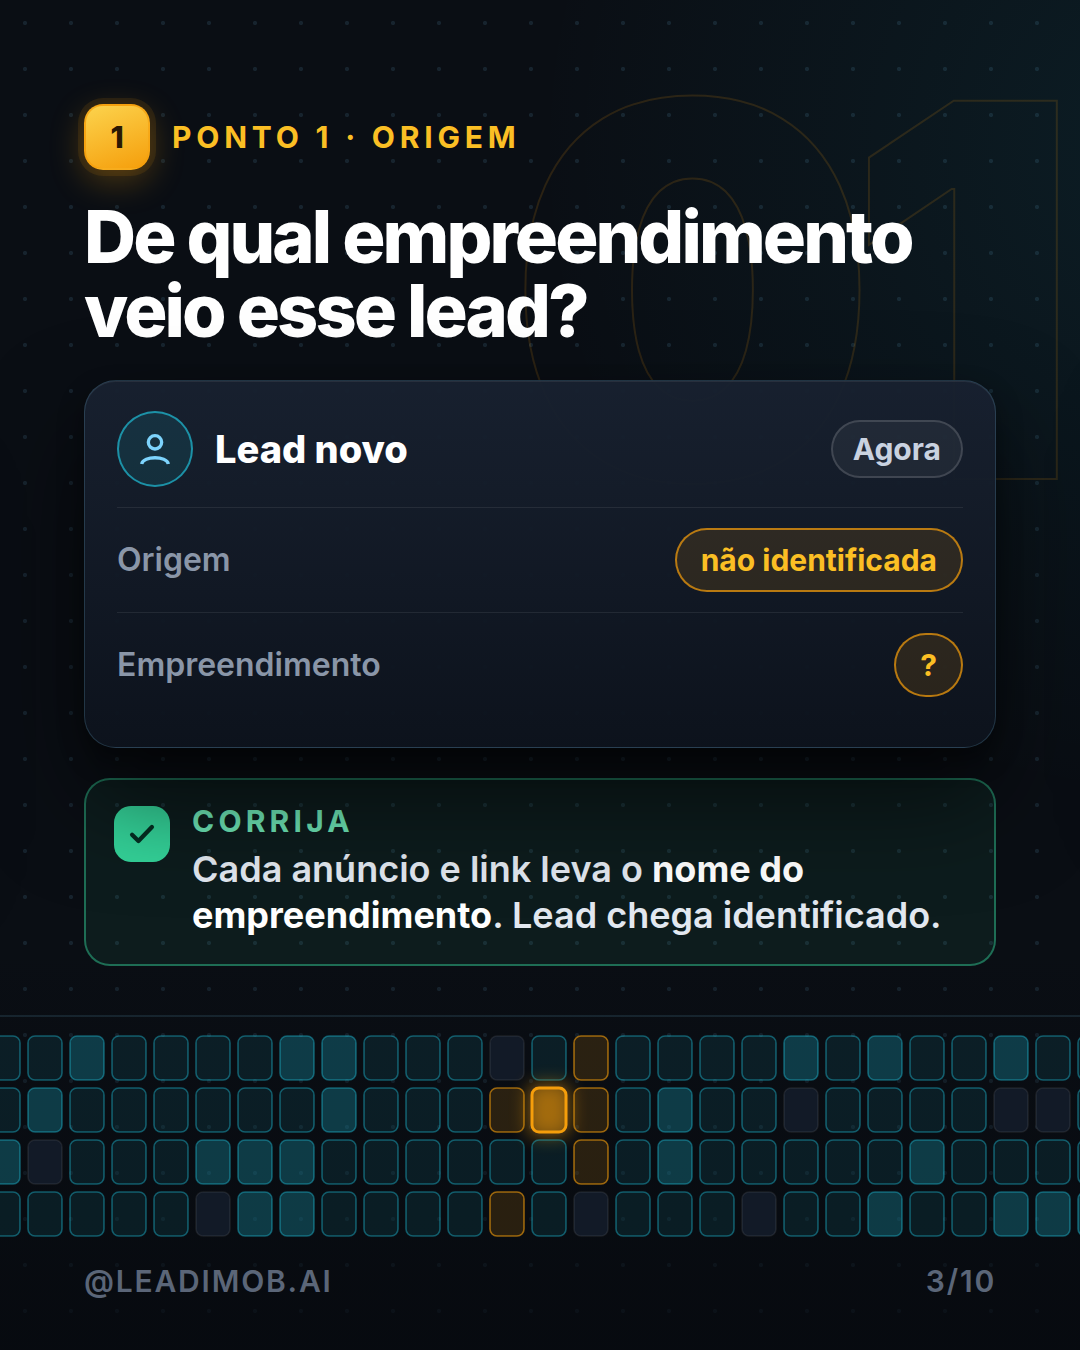
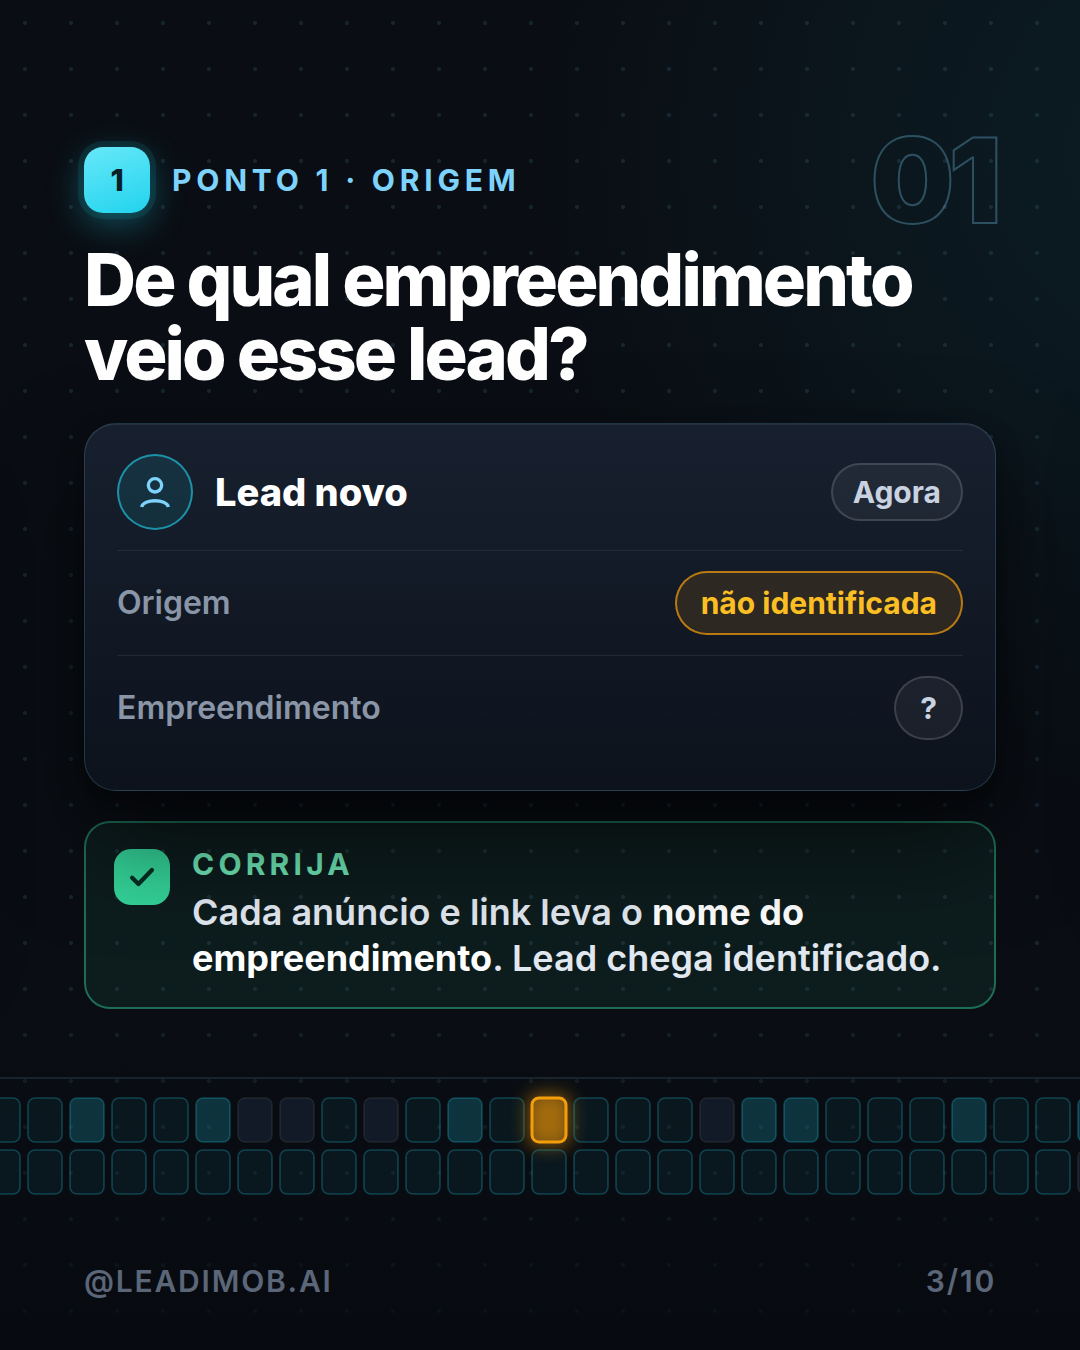
WIP 2026-10-06: carrossel corrigido após crítica
Claude-Session: https://claude.ai/code/session_019uqQxnMBrCEpegyBq19LrA

diff --git a/instagram/2026-10-06/src/c1-index.html b/instagram/2026-10-06/src/c1-index.html
@@ -47,7 +47,8 @@ body{background:#0A0E14;width:10800px;height:1350px;overflow:hidden;font-family:
 .bt{display:flex;justify-content:flex-end;align-items:center;gap:8px;font:500 28px/1 IN;color:rgba(233,237,239,.62);margin-top:8px}
 .tk{width:34px;height:22px}
 .strike{text-decoration:line-through;text-decoration-thickness:4px;text-decoration-color:#F59E0B}
-.lab{font:700 30px/1 IN;letter-spacing:.14em;text-transform:uppercase;color:#7C8799;display:flex;align-items:center;gap:12px}
+.gh{margin-left:auto;font:900 118px/66px IN;letter-spacing:-.05em;color:transparent;-webkit-text-stroke:2px rgba(125,211,252,.30);height:66px}
+.lab{font:700 30px/1 IN;letter-spacing:.14em;text-transform:uppercase;color:#A9B4C6;display:flex;align-items:center;gap:12px}
 
 /* ---------- stream of property cards ---------- */
 #band{position:absolute;inset:0;z-index:2}
@@ -94,21 +95,21 @@ body{background:#0A0E14;width:10800px;height:1350px;overflow:hidden;font-family:
 .row{display:flex;align-items:center;justify-content:space-between;gap:18px;padding:20px 0;border-top:1px solid rgba(255,255,255,.08);font:600 34px/1 IN;color:#C9D2E0}
 .row:first-child{border-top:0}
 .row .k{color:#8A96A8;font-weight:600;font-size:32px}
-.un{width:60px;height:38px;border-radius:10px;border:1.5px solid rgba(255,255,255,.08);background:#121A27}
+.un{height:62px;width:auto;border-radius:10px;border:1.5px solid rgba(255,255,255,.08);background:#121A27}
 .un.h{background:rgba(34,211,238,.16);border-color:rgba(34,211,238,.55)}
 .un.s{background:rgba(52,211,153,.2);border-color:rgba(52,211,153,.7)}
-.un.q{background:rgba(245,158,11,.18);border:3px solid #F59E0B;box-shadow:0 0 0 6px rgba(245,158,11,.12),0 0 34px rgba(245,158,11,.35);display:flex;align-items:center;justify-content:center;font:800 32px/1 IN;color:#FBBF24}
+.un.q{width:auto;background:rgba(245,158,11,.18);border:3px solid #F59E0B;box-shadow:0 0 0 6px rgba(245,158,11,.12),0 0 34px rgba(245,158,11,.35);display:flex;align-items:center;justify-content:center;font:800 32px/1 IN;color:#FBBF24}
 .file{display:flex;align-items:center;gap:20px;padding:18px 24px;border-radius:22px;background:linear-gradient(180deg,rgba(24,33,48,.97),rgba(13,19,29,.97));border:1px solid rgba(125,211,252,.16);box-shadow:0 24px 50px rgba(0,0,0,.5),inset 0 1px 0 rgba(255,255,255,.06);font:700 34px/1 IN}
 .file .pdf{width:50px;height:62px;border-radius:9px;background:#E9EEF4;position:relative;flex:none;box-shadow:inset 0 -18px 0 #C3D0DF}
 .file .pdf::after{content:"";position:absolute;right:0;top:0;width:16px;height:16px;background:#9FB3C4;border-bottom-left-radius:8px}
 .av{width:86px;height:86px;border-radius:50%;display:flex;align-items:center;justify-content:center;flex:none;background:rgba(34,211,238,.10);border:2.5px solid rgba(34,211,238,.6)}
 .av.am{background:rgba(245,158,11,.12);border-color:#F59E0B}
 .av.em{background:transparent;border:3px dashed #F59E0B;color:#FBBF24;font:800 40px/1 IN}
-.kc{display:flex;align-items:center;gap:20px;padding:8px 22px;border-radius:22px;background:#0F1621;border:1px solid rgba(255,255,255,.09);box-shadow:0 14px 30px rgba(0,0,0,.4)}
+.kc{display:flex;align-items:center;gap:20px;padding:16px 24px;border-radius:22px;background:#0F1621;border:1px solid rgba(255,255,255,.09);box-shadow:0 14px 30px rgba(0,0,0,.4)}
 .kc .l{flex:1;display:flex;flex-direction:column;gap:12px}
 .kc .l b{height:14px;border-radius:7px;background:rgba(255,255,255,.28);display:block;width:70%}
 .kc .l s{height:12px;border-radius:6px;background:rgba(255,255,255,.12);display:block;width:44%}
-.fr{display:flex;align-items:center;gap:24px;padding:22px 0;border-top:1px solid rgba(255,255,255,.08);font:600 38px/1.2 IN;color:#E2E8F0}
+.fr{display:flex;align-items:center;gap:24px;padding:32px 0;border-top:1px solid rgba(255,255,255,.08);font:600 38px/1.2 IN;color:#E2E8F0}
 .fr:first-child{border-top:0}
 .fr .ic{width:68px;height:68px;border-radius:20px;background:rgba(52,211,153,.10);border:1.5px solid rgba(52,211,153,.5);display:flex;align-items:center;justify-content:center;flex:none}
 .legend{display:flex;gap:14px;flex-wrap:wrap}
@@ -137,23 +138,22 @@ const CKG='<svg width="36" height="36" viewBox="0 0 24 24"><path d="M5 12.500l4.
 
 /* ---- faixa contínua: fachada do empreendimento, cada janela é um lead ---- */
 (function(){
- const P=42,TW=34,TH=44,RP=52,Y0=1036,ROWS=4,r=rng(606);let s='';
+ const P=42,TW=34,TH=44,RP=52,Y0=1098,ROWS=2,r=rng(606);let s='';
  s+='<defs><filter id="gl" x="-80%" y="-80%" width="260%" height="260%"><feGaussianBlur stdDeviation="9"/></filter></defs>';
- s+='<line x1="0" x2="10800" y1="1016" y2="1016" stroke="rgba(125,211,252,.16)" stroke-width="1.5"/>';
+ s+='<line x1="0" x2="10800" y1="1078" y2="1078" stroke="rgba(125,211,252,.16)" stroke-width="1.5"/>';
  const cols=Math.floor(10800/P);
- const pain=[];for(let k=3;k<=8;k++){pain.push({c:Math.round(((k-1)*1080+540)/P),row:(k%2)?1:2})}
+ const pain=[];for(let k=3;k<=8;k++){pain.push({c:Math.round(((k-1)*1080+540)/P),row:(k%2)?0:1})}
  for(let c=0;c<cols;c++){for(let ro=0;ro<ROWS;ro++){
   const x=c*P+4,y=Y0+ro*RP,sl=(c*P+17)/1080,q=r(),q2=r();
   let f,st,op=1,gl='';
-  const cool=sm(1.4,8.1,sl)*0.8, green=sm(8.5,9.8,sl)*0.92;
+  const cool=sm(1.0,6.5,sl)*0.85, green=sm(8.5,9.8,sl)*0.92;
   if(sl>=8.5 && q<green){f='rgba(52,211,153,.20)';st='rgba(52,211,153,.75)'; if(q2<.3)f='rgba(52,211,153,.38)'}
   else if(q<cool && sl<8.5){f='#121A27';st='rgba(255,255,255,.08)'}
-  else {f='rgba(34,211,238,.09)';st='rgba(34,211,238,.38)'; if(q2<.2)f='rgba(34,211,238,.24)'}
+  else {f='rgba(34,211,238,.06)';st='rgba(34,211,238,.26)'; if(q2<.12)f='rgba(34,211,238,.20)'}
   let amb=0;
   for(const p of pain){const dc=Math.abs(c-p.c);
    if(dc===0&&ro===p.row){amb=2}
-   else if(dc<=2&&amb<2&&r()<.22&&ro!==p.row){amb=1}
-   else if(dc===1&&ro===p.row&&amb<2){amb=1}}
+   }
   if(amb===2){gl=`<rect x="${x-4}" y="${y-4}" width="${TW+8}" height="${TH+8}" rx="9" fill="#F59E0B" opacity=".5" filter="url(#gl)"/>`;f='rgba(245,158,11,.30)';st='#F59E0B'}
   else if(amb===1){f='rgba(245,158,11,.14)';st='rgba(245,158,11,.6)'}
   s+=gl+`<rect x="${x}" y="${y}" width="${TW}" height="${TH}" rx="7" fill="${f}" stroke="${st}" stroke-width="${amb===2?3:1.600}"/>`;
@@ -163,9 +163,9 @@ const CKG='<svg width="36" height="36" viewBox="0 0 24 24"><path d="M5 12.500l4.
 
 /* ---- helpers de slide ---- */
 const foot=n=>`<div class="foot"><span>@LEADIMOB.AI</span><span>${n}/10</span></div>`;
-const ttl=(n,k,amb,icon)=>`<div class="ttl"><div class="num${amb?' amb':''}">${icon||n}</div><div class="kick" style="${amb?'color:#FBBF24':''}">${k}</div></div>`;
+const ttl=(n,k,amb,icon,gh)=>`<div class="ttl"><div class="num">${icon||n}</div><div class="kick">${k}</div>${gh?`<div class="gh">${gh}</div>`:''}</div>`;
 const fix=t=>`<div class="fix"><div class="ck">${CKW}</div><div class="t"><b>Corrija</b>${t}</div></div>`;
-const pain=(i,n,k,title,art,fx,ghost)=>`<div class="sl" style="left:${(i-1)*1080}px;justify-content:flex-start;padding-top:104px"><div class="ghost" style="-webkit-text-stroke-color:rgba(245,158,11,.14)">${ghost||'0'+n}</div>${ttl(n,k,1)}<div class="h2" style="font-size:72px">${title}</div><div style="margin-top:32px">${art}</div>${fix(fx)}${foot(i)}</div>`;
+const pain=(i,n,k,title,art,fx,ghost)=>`<div class="sl" style="left:${(i-1)*1080}px;padding-bottom:290px">${ttl(n,k,1,null,ghost||'0'+n)}<div class="h2" style="font-size:72px">${title}</div><div style="margin-top:32px">${art}</div>${fix(fx)}${foot(i)}</div>`;
 let H='';
 
 /* 1 CAPA */
@@ -174,9 +174,9 @@ H+=`<div class="sl" style="left:0;justify-content:flex-start;padding-top:118px">
   <div class="ttl" style="margin:0"><div class="num"><svg width="34" height="34" viewBox="0 0 24 24" fill="none" stroke="#06202A" stroke-width="2.600" stroke-linecap="round" stroke-linejoin="round"><path d="M4 21V8l8-5 8 5v13M9 21v-6h6v6"/></svg></div><div class="kick">Lançamento</div></div>
   <span class="chip cy"><svg width="24" height="28" viewBox="0 0 20 24"><path d="M3 2h14v20l-7-5.500L3 22z" fill="#A5F3FC"/></svg>Salve este post</span>
  </div>
- <div class="h1" style="margin-top:50px;font-size:150px"><span class="hl">6</span> pontos<br>onde o lead<br><span style="color:transparent;-webkit-text-stroke:3px #8794A8">esfria.</span></div>
- <div class="p" style="margin-top:34px;font-size:40px;color:#E2E8F0">Lançamento imobiliário: veja onde<br>o interesse se perde e como corrigir.</div>
- <div class="legend" style="margin-top:34px">
+ <div class="h1" style="margin-top:56px;font-size:160px"><span class="hl">6</span> pontos<br>onde o lead<br><span style="color:transparent;-webkit-text-stroke:3px #8794A8">esfria.</span></div>
+ <div style="margin-top:40px;font:700 46px/1.25 IN;letter-spacing:-.01em;color:#fff">Lançamento imobiliário: onde o interesse se perde e <span class="hl">como corrigir</span>.</div>
+ <div class="legend" style="margin-top:44px">
   <span class="chip cy" style="padding:12px 20px"><i class="dot" style="background:rgba(34,211,238,.45);border:2px solid #22D3EE"></i>Interessado</span>
   <span class="chip amb" style="padding:12px 20px"><i class="dot" style="background:rgba(245,158,11,.4);border:2px solid #F59E0B"></i>Esfriou</span>
   <span class="chip gr" style="padding:12px 20px"><i class="dot" style="background:rgba(52,211,153,.4);border:2px solid #34D399"></i>Resolvido</span>
@@ -185,11 +185,10 @@ H+=`<div class="sl" style="left:0;justify-content:flex-start;padding-top:118px">
 </div>`;
 
 /* 2 POR QUE */
-H+=`<div class="sl" style="left:1080px;justify-content:flex-start;padding-top:104px"><div class="ghost" style="-webkit-text-stroke-color:rgba(245,158,11,.14)">!</div>
- ${ttl('!','Por que esfria',1)}
+H+=`<div class="sl" style="left:1080px;padding-bottom:290px">${ttl('!','Por que esfria',1,null,'!')}
  <div class="h2" style="font-size:72px">No lançamento, o interesse chega no pico. <span class="am">E esfria rápido.</span></div>
  <div class="card" style="margin-top:34px;padding:28px 30px 24px">
-  <svg width="852" height="250" viewBox="0 0 852 250" fill="none">
+  <svg width="852" height="330" viewBox="0 0 852 250" preserveAspectRatio="none" fill="none">
    <defs><linearGradient id="hg" x1="0" x2="1"><stop offset="0" stop-color="#22D3EE"/><stop offset=".55" stop-color="#7DD3FC"/><stop offset="1" stop-color="#F59E0B"/></linearGradient></defs>
    <path d="M20 232H832M20 232V10" stroke="rgba(255,255,255,.16)" stroke-width="2"/>
    <path d="M30 40C150 44 230 110 330 170C430 222 600 226 820 226" stroke="url(#hg)" stroke-width="8" stroke-linecap="round"/>
@@ -205,45 +204,44 @@ H+=`<div class="sl" style="left:1080px;justify-content:flex-start;padding-top:10
 H+=pain(3,1,'Ponto 1 · Origem','De qual empreendimento veio esse lead?',
 `<div class="card ficha"><div style="display:flex;align-items:center;gap:22px;padding-bottom:20px"><div class="av" style="width:76px;height:76px"><svg width="40" height="40" viewBox="0 0 24 24" fill="none" stroke="#7DD3FC" stroke-width="2"><circle cx="12" cy="8" r="4"/><path d="M4 21c1-5 15-5 16 0"/></svg></div><div style="font:800 38px/1 IN">Lead novo</div><span class="chip nt" style="margin-left:auto;padding:12px 20px">Agora</span></div>
 <div class="row"><span class="k">Origem</span><span class="chip amb">não identificada</span></div>
-<div class="row"><span class="k">Empreendimento</span><span class="chip amb">?</span></div></div>`,
+<div class="row"><span class="k">Empreendimento</span><span class="chip nt">?</span></div></div>`,
 'Cada anúncio e link leva o <i>nome do empreendimento</i>. Lead chega identificado.');
 
 /* 4 DISPONIBILIDADE */
-(function(){const st=['h','','h','s','','h','','h','q','','h','','h','','s','','h',''];let g='';st.forEach(x=>g+=x==='q'?'<div class="un q">?</div>':`<div class="un ${x}"></div>`);
+(function(){const st=['h','','h','s','','h','h','','q','','h','s'];let g='';st.forEach(x=>g+=x==='q'?'<div class="un q">?</div>':`<div class="un ${x}"></div>`);
+const lg=(c,b,t)=>`<span style="display:inline-flex;align-items:center;gap:10px;font:600 30px/1 IN;color:#C9D2E0"><i class="dot" style="background:${c};border:2px solid ${b}"></i>${t}</span>`;
 H+=pain(4,2,'Ponto 2 · Disponibilidade','A pergunta sobre a unidade fica sem resposta.',
-`<div class="card" style="padding:26px 30px"><div class="lab" style="margin-bottom:18px">Espelho de vendas</div><div style="display:grid;grid-template-columns:repeat(6,60px);gap:10px;justify-content:space-between">${g}</div>
-<div class="bub bin" style="margin-top:24px;padding:16px 22px 12px;font-size:36px">Ainda tem essa unidade?<div class="bt" style="color:#FBBF24;justify-content:flex-start;font-size:30px">visualizada · sem resposta</div></div></div>`,
+`<div class="card" style="padding:28px 30px"><div class="lab" style="margin-bottom:20px">Espelho de vendas</div><div style="display:grid;grid-template-columns:repeat(6,1fr);gap:14px">${g}</div>
+<div style="display:flex;gap:26px;margin-top:20px">${lg('rgba(34,211,238,.3)','#22D3EE','Disponível')}${lg('rgba(52,211,153,.3)','#34D399','Reservada')}${lg('#121A27','rgba(255,255,255,.3)','Vendida')}</div>
+<div class="bub bin" style="margin-top:26px;padding:18px 24px 14px;font-size:38px">Ainda tem essa unidade?<div class="bt" style="color:#C9D2E0;justify-content:flex-start;font-size:30px">visualizada · sem resposta</div></div></div>`,
 'Responda a disponibilidade <i>na hora</i>, direto do espelho atualizado.');})();
 
 /* 5 TABELA */
 H+=pain(5,3,'Ponto 3 · Tabela','Tabela desatualizada circulando no grupo.',
-`<div style="position:relative;display:flex;flex-direction:column;gap:16px"><div class="file"><span class="pdf"></span>tabela-final.pdf<span class="chip amb" style="margin-left:auto;padding:12px 20px">antiga</span></div>
-<div class="file" style="margin-left:34px"><span class="pdf"></span>tabela-final-2.pdf<span class="chip amb" style="margin-left:auto;padding:12px 20px">antiga?</span></div>
-<div class="file" style="margin-left:68px"><span class="pdf"></span>tabela-NOVA.pdf<span class="chip nt" style="margin-left:auto;padding:12px 20px">qual vale?</span></div></div>`,
+`<div style="position:relative;display:flex;flex-direction:column;gap:16px"><div class="file"><span class="pdf"></span>tabela-final.pdf<span class="chip nt" style="margin-left:auto;padding:12px 20px">antiga</span></div>
+<div class="file" style="margin-left:34px"><span class="pdf"></span>tabela-final-2.pdf<span class="chip nt" style="margin-left:auto;padding:12px 20px">antiga?</span></div>
+<div class="file" style="margin-left:68px"><span class="pdf"></span>tabela-NOVA.pdf<span class="chip amb" style="margin-left:auto;padding:12px 20px">qual vale?</span></div></div>`,
 'Uma só versão vigente. <i>Todo mundo consulta a mesma.</i>');
 
 /* 6 PLANTAO */
 H+=pain(6,4,'Ponto 4 · Plantão','Plantão lotado e fila sem dono.',
-`<div class="card" style="padding:34px 30px"><div class="lab" style="margin-bottom:22px">Fila do plantão</div>
-<div style="display:flex;align-items:center;gap:16px">
-${[0,1,2].map(()=>`<div class="av"><svg width="44" height="44" viewBox="0 0 24 24" fill="none" stroke="#7DD3FC" stroke-width="2"><circle cx="12" cy="8" r="4"/><path d="M4 21c1-5 15-5 16 0"/></svg></div>`).join('')}
-${[0,1].map(()=>`<div class="av am"><svg width="44" height="44" viewBox="0 0 24 24" fill="none" stroke="#FBBF24" stroke-width="2"><circle cx="12" cy="8" r="4"/><path d="M4 21c1-5 15-5 16 0"/></svg></div>`).join('')}
+`<div class="card" style="padding:38px 30px 34px"><div class="lab" style="margin-bottom:30px">Fila do plantão</div>
+<div style="display:flex;align-items:center;justify-content:space-between">
+${[0,1,2,3,4].map(()=>`<div class="av" style="width:112px;height:112px"><svg width="54" height="54" viewBox="0 0 24 24" fill="none" stroke="#7DD3FC" stroke-width="2"><circle cx="12" cy="8" r="4"/><path d="M4 21c1-5 15-5 16 0"/></svg></div>`).join('')}
 <svg width="40" height="40" viewBox="0 0 24 24" fill="none" stroke="#7C8799" stroke-width="2.600" stroke-linecap="round"><path d="M5 12h14M13 6l6 6-6 6"/></svg>
-<div class="av em">?</div></div>
-<div style="margin-top:22px;display:flex;gap:12px"><span class="chip amb" style="padding:12px 20px">esperando</span><span class="chip nt" style="padding:12px 20px">sem responsável</span></div></div>`,
+<div class="av em" style="width:112px;height:112px;font-size:52px">?</div></div>
+<div style="margin-top:30px;display:flex;gap:14px"><span class="chip nt" style="padding:12px 20px">esperando</span><span class="chip nt" style="padding:12px 20px">sem responsável</span></div></div>`,
 'Todo lead da fila recebe <i>um responsável</i>. Quem espera recebe retorno.');
 
 /* 7 CONSULTOR */
 H+=pain(7,5,'Ponto 5 · Consultor','Lead sem consultor definido.',
-`<div class="card" style="padding:26px 28px"><div class="lab" style="margin-bottom:14px">Novos leads</div><div style="display:flex;flex-direction:column;gap:10px">
-<div class="kc"><div class="l"><b></b><s></s></div><div class="av" style="width:72px;height:72px;font:800 30px IN;color:#A5F3FC">M</div></div>
-<div class="kc"><div class="l"><b></b><s></s></div><div class="av" style="width:72px;height:72px;font:800 30px IN;color:#A5F3FC">R</div></div>
-<div class="kc" style="border:2px solid rgba(245,158,11,.6)"><div class="l"><b></b><s></s></div><div class="av em" style="width:72px;height:72px;font-size:34px">?</div></div></div></div>`,
+`<div class="card" style="padding:30px 28px"><div class="lab" style="margin-bottom:20px">Novos leads</div><div style="display:flex;flex-direction:column;gap:14px">
+<div class="kc"><div class="l"><div style="font:700 32px/1 IN">Lead novo · agora</div><div style="font:600 30px/1 IN;color:#A9B4C6">Empreendimento</div></div><div class="av" style="width:80px;height:80px;font:800 32px IN;color:#A5F3FC">M</div></div><div class="kc"><div class="l"><div style="font:700 32px/1 IN">Lead novo · agora</div><div style="font:600 30px/1 IN;color:#A9B4C6">Empreendimento</div></div><div class="av" style="width:80px;height:80px;font:800 32px IN;color:#A5F3FC">R</div></div><div class="kc"><div class="l"><div style="font:700 32px/1 IN">Lead novo · agora</div><div style="font:600 30px/1 IN;color:#A9B4C6">Empreendimento</div></div><div class="av em" style="width:80px;height:80px;font-size:36px">?</div></div></div></div>`,
 'Defina o consultor <i>no instante</i> da chegada.');
 
 /* 8 POS VISITA */
 H+=pain(8,6,'Ponto 6 · Pós-visita','Depois da visita, ninguém retoma.',
-`<div class="card" style="padding:70px 30px 64px"><div style="position:relative;display:flex;justify-content:space-between;align-items:flex-start">
+`<div class="card" style="padding:96px 30px 90px"><div style="position:relative;display:flex;justify-content:space-between;align-items:flex-start">
 <div style="position:absolute;left:60px;right:60px;top:42px;height:4px;background:linear-gradient(90deg,#34D399 0 32%,rgba(245,158,11,.7) 38% 62%,rgba(255,255,255,.14) 68%)"></div>
 <div style="width:200px;text-align:center;position:relative"><div class="av" style="margin:0 auto;border-color:#34D399;background:#0F2A24">${CKG}</div><div style="font:700 32px/1.1 IN;margin-top:16px">Visita feita</div></div>
 <div style="width:200px;text-align:center;position:relative"><div class="av em" style="margin:0 auto;background:#0E1520">?</div><div style="font:700 32px/1.1 IN;margin-top:16px;color:#FBBF24">Retomada</div></div>
@@ -252,8 +250,7 @@ H+=pain(8,6,'Ponto 6 · Pós-visita','Depois da visita, ninguém retoma.',
 
 /* 9 LEADIMOB */
 const fi=(p,t)=>`<div class="fr"><div class="ic"><svg width="38" height="38" viewBox="0 0 24 24" fill="none" stroke="#6EE7B7" stroke-width="2.200" stroke-linecap="round" stroke-linejoin="round">${p}</svg></div><div>${t}</div></div>`;
-H+=`<div class="sl" style="left:8640px;justify-content:flex-start;padding-top:104px"><div class="ghost" style="-webkit-text-stroke-color:rgba(52,211,153,.16)">✓</div>
- <div class="ttl"><div class="num" style="background:linear-gradient(160deg,#6EE7B7,#34D399);box-shadow:0 0 0 6px rgba(52,211,153,.10),0 10px 34px rgba(52,211,153,.3)">${CKW}</div><div class="kick" style="color:#6EE7B7">Onde a Leadimob entra</div></div>
+H+=`<div class="sl" style="left:8640px;padding-bottom:290px"><div class="ttl"><div class="num" style="background:linear-gradient(160deg,#6EE7B7,#34D399);box-shadow:0 0 0 6px rgba(52,211,153,.10),0 10px 34px rgba(52,211,153,.3)">${CKW}</div><div class="kick" style="color:#6EE7B7">Onde a Leadimob entra</div></div>
  <div class="h2" style="font-size:72px">A IA cuida do operacional. <span style="color:#6EE7B7">Você cuida do relacionamento.</span></div>
  <div class="card" style="margin-top:34px;padding:10px 30px">
   ${fi('<path d="M21 12a8 8 0 0 1-12 7l-5 1 1.500-4.500A8 8 0 1 1 21 12z"/>','Responde no WhatsApp, 24h')}
@@ -278,7 +275,7 @@ H+=`<div class="sl lo" style="left:9720px">
    <div class="ckl"></div><div class="ckl"></div><div class="ckl"></div><div class="ckl"></div><div class="ckl"></div>
   </div>
   <div>
-   <div class="p" style="font-size:38px">Salve este post e receba o checklist</div>
+   <div class="p" style="font-size:38px;color:#E2E8F0">Salve este post e receba o checklist</div>
    <div style="font:800 54px/1.08 IN;letter-spacing:-.03em;margin-top:10px">Onde seus leads estão morrendo</div>
    <div style="margin-top:26px;display:flex;align-items:center;gap:22px">
     <div style="width:300px;height:96px;border-radius:22px;background:#F3F7FB;display:flex;align-items:center;justify-content:center;box-shadow:0 20px 44px rgba(0,0,0,.5)"><img src="logo.png" style="width:240px"></div>
